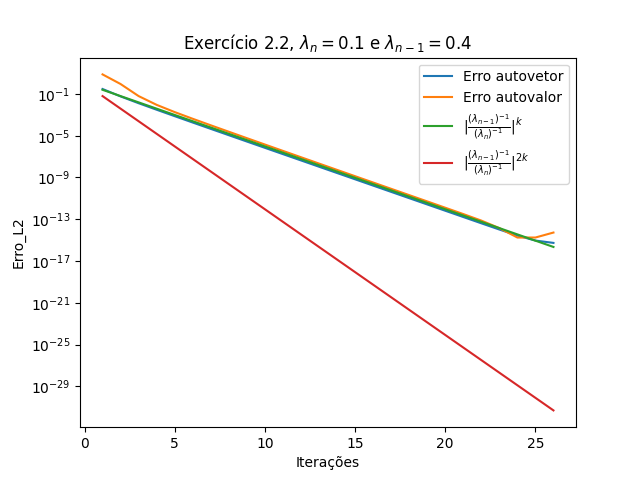
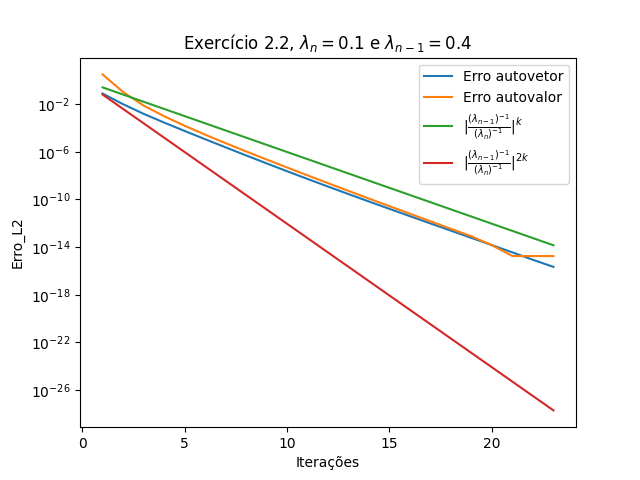
ex1 e ex2 com geração aleatória com seed definida

diff --git a/metodos.py b/metodos.py
@@ -5,6 +5,26 @@ import numpy as np
 '''
 O método a seguir é responsável por gerar uma matriz
 de dimensões x por y com elementos aleatórios entre
+0 e 1 por meio da semente 'seed'.
+'''
+def generateRandomB(x,y, seed):
+    np.random.seed(seed)
+    array = np.random.rand(x,y)
+    return array
+
+'''
+O método a seguir é responsável por gerar um vetor
+de dimensão x por 1 com elementos aleatórios entre
+0 e 1 por meio da semente 'seed'.
+'''
+def generateRandomX0(x, seed):
+    np.random.seed(seed)
+    array = np.random.rand(x,1)
+    return array
+
+'''
+O método a seguir é responsável por gerar uma matriz
+de dimensões x por y com elementos aleatórios entre
 0 e 1.
 '''
 def generateRandomArray(x, y):

diff --git a/ex1.py b/ex1.py
@@ -161,8 +161,8 @@ def createGraphic(A, x0, eigValuesAndVectors, title, fileName):
 
 
 # Geração das condições iniciais do ex 1.1
-B = met.generateRandomArray(10, 10)
-x0 = met.generateRandomArray(10, 1)
+B = met.generateRandomB(10,10,2021)
+x0 = met.generateRandomX0(10, 2022)
 
 
 print("******************************************************")
@@ -192,9 +192,8 @@ createGraphic(A, x0, eigValuesAndVectors, "Exercício 1.1", "ex1_1")
 
 
 # Geração das condições iniciais do ex 1.2
-B = met.generateRandomArray(5, 5)
-x0 = met.generateRandomArray(5, 1)
-
+B = met.generateRandomB(5,5, 2021)
+x0 =  met.generateRandomX0(5,2022)
 
 print("******************************************************")
 print("Exercicio 1.2")

diff --git a/ex2.py b/ex2.py
@@ -228,8 +228,8 @@ def createGraphic(A, x0, n, eigValuesAndVectorsInverseA, title, fileName):
 
 
 # Geração das condições iniciais do ex 2.1
-B = met.generateRandomArray(10, 10)
-x0 = met.generateRandomArray(10, 1)
+B = met.generateRandomB(10,10,2021)
+x0 = met.generateRandomX0(10, 2022)
 
 
 print("******************************************************")
@@ -268,8 +268,8 @@ createGraphic(A, x0, 10, eigValuesAndVectorsInverseA, "Exercício 2.1", "ex2_1")
 
 
 # Geração das condições iniciais do ex 2.2
-B0 = met.generateRandomArray(5, 5)
-x0 = met.generateRandomArray(5, 1)
+B0 = met.generateRandomB(5,5, 2021)
+x0 = met.generateRandomX0(5,2022)
 p = 10
 
 
